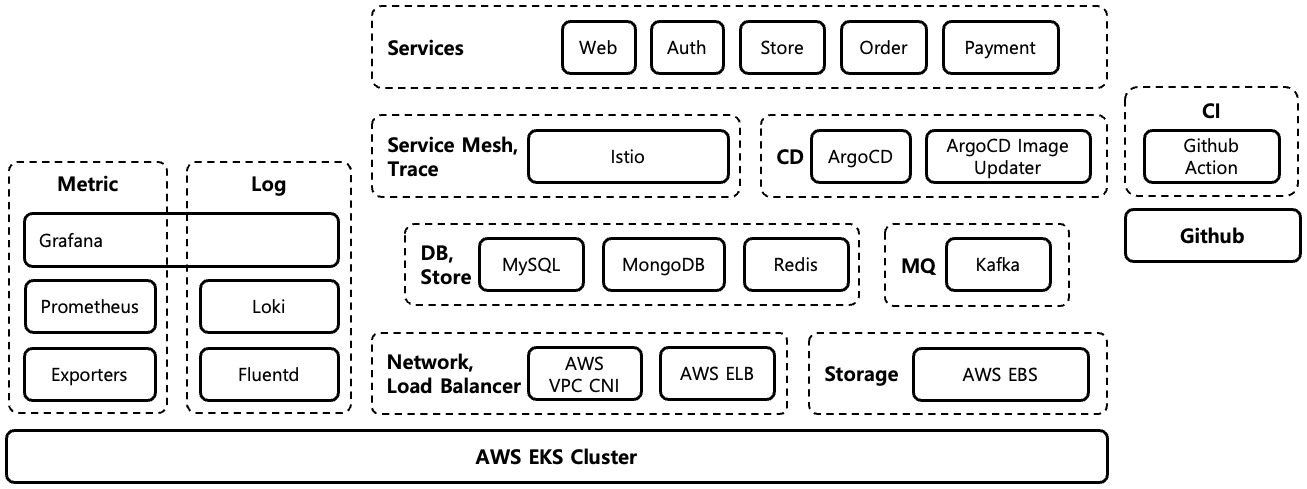
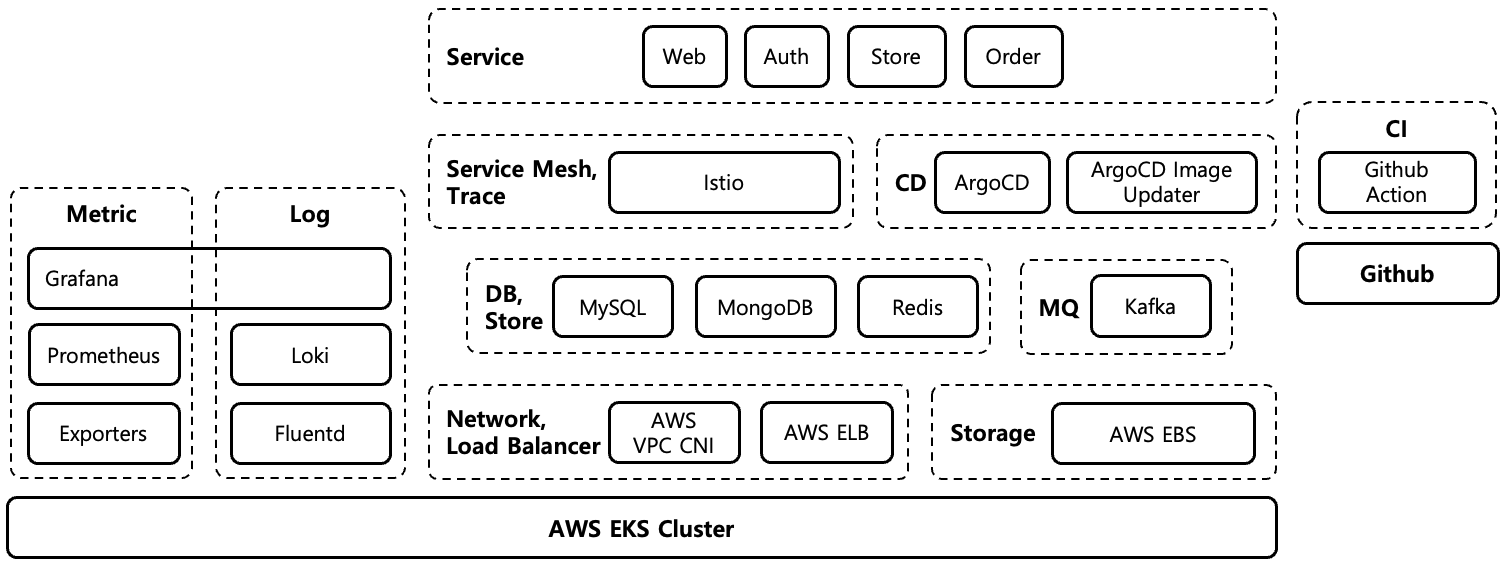
Update

diff --git a/README.md b/README.md
@@ -12,19 +12,19 @@ msa-event-market project's component stack
 
 msa-event-market project is composed of the following git repositories.
 
+* [aws-terraform](https://github.com/ssup2-playground/msa-event-market_aws-terraform) : Terraform for AWS EKS clusters and AWS resources.
+
+* [helm-charts](https://github.com/ssup2-playground/helm-charts) : Helm charts of DB, message queue, cache, proxy, log analyzer/collector, metric collector, and CI/CD tool used by msa-event-market services.
+
 * [service-auth](https://github.com/ssup2-playground/msa-event-market_service-auth) : Auth service manages user information and is responsible for authentication/authorization of msa-event-market service. Auth service is developed with **Golang**.
 
 * [service-store](https://github.com/ssup2-playground/msa-event-market_service-store) : Store service manages store and product inventory. Store service is developed with **Java on SpringBoot**.
 
 * service-order : Todo
 
-* service-payment : Todo
-
 * service-web : Todo
 
 * [deploy-services](https://github.com/ssup2-playground/msa-event-market_deploy-services) : Service deployment configuration git repository for GitOps.
-
-* [helm-charts](https://github.com/ssup2-playground/helm-charts) : Helm charts of DB, message queue, cache, proxy, log analyzer/collector, metric collector, and CI/CD tool used by msa-event-market services.
 
 ## Service Considerations
 
